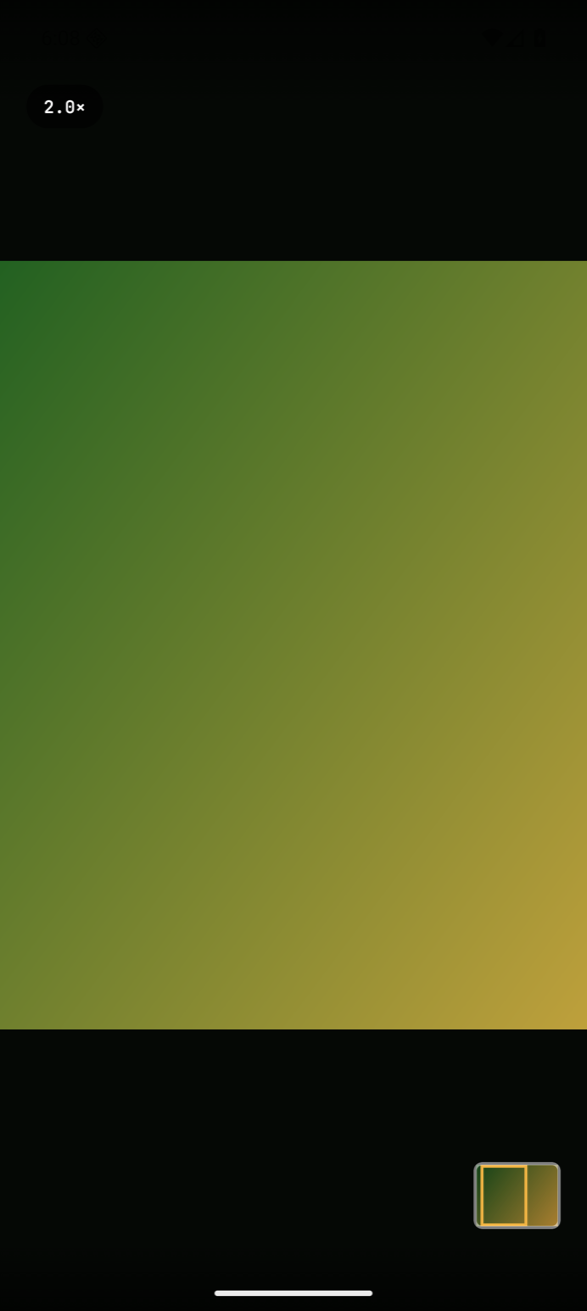
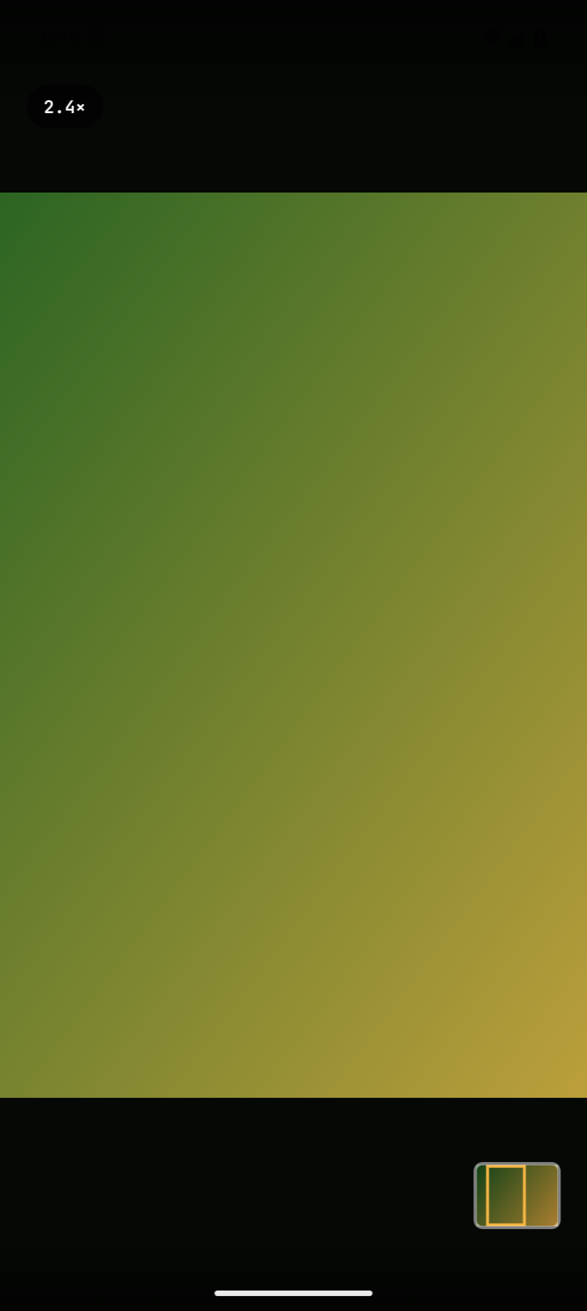
test(android): H2 pinches to 2.4x like the iOS board
Claude-Session: https://claude.ai/code/session_014bTqXC7JmRoCCrzJgBwYLH

diff --git a/mobile/androidApp/src/androidTest/kotlin/com/crichere/app/parity/ActionBoards.kt b/mobile/androidApp/src/androidTest/kotlin/com/crichere/app/parity/ActionBoards.kt
@@ -93,7 +93,7 @@ private val actionBoards: Map<String, ActionBoard> by lazy {
         // H2: pinched to about 2.4x, then panned 120 right and 60 up, like the iOS board's initial scale and offset.
         "H2" to ActionBoard(shell.getValue("H1")) {
             onRoot().performTouchInput {
-                pinch(center - Offset(100f, 0f), center - Offset(240f, 0f), center + Offset(100f, 0f), center + Offset(240f, 0f), durationMillis = 600)
+                pinch(center - Offset(100f, 0f), center - Offset(285f, 0f), center + Offset(100f, 0f), center + Offset(285f, 0f), durationMillis = 600)
             }
             waitForIdle()
             onRoot().performTouchInput { swipe(center, center + Offset(120.dp.toPx(), -60.dp.toPx()), durationMillis = 600) }

diff --git a/docs/IOS-REDESIGN-PLAN.md b/docs/IOS-REDESIGN-PLAN.md
@@ -307,8 +307,7 @@ the sample image and accepts the check sheet (`PickedProofBoards.kt`).
 
 **Allowed differences in the captures:** the native pickers inside the date / time dialogs (I6, J10,
 J11: iOS calendar and wheel vs Material's), the keyboard (A2, B1, AD6), Android's clipboard chip after
-Copy (F2, G3-noupi), the Google map with no Maps key on the emulator (I5, I11, I16), H2's zoom level
-(a pinch reaches 2.0x where the iOS board starts at 2.4x), and lines that sit within a point of the width
+Copy (F2, G3-noupi), the Google map with no Maps key on the emulator (I5, I11, I16), and lines that sit within a point of the width
 wrapping one word differently (measured text widths agree to within 1%).
 
 **Not reachable here (need the owner):**
